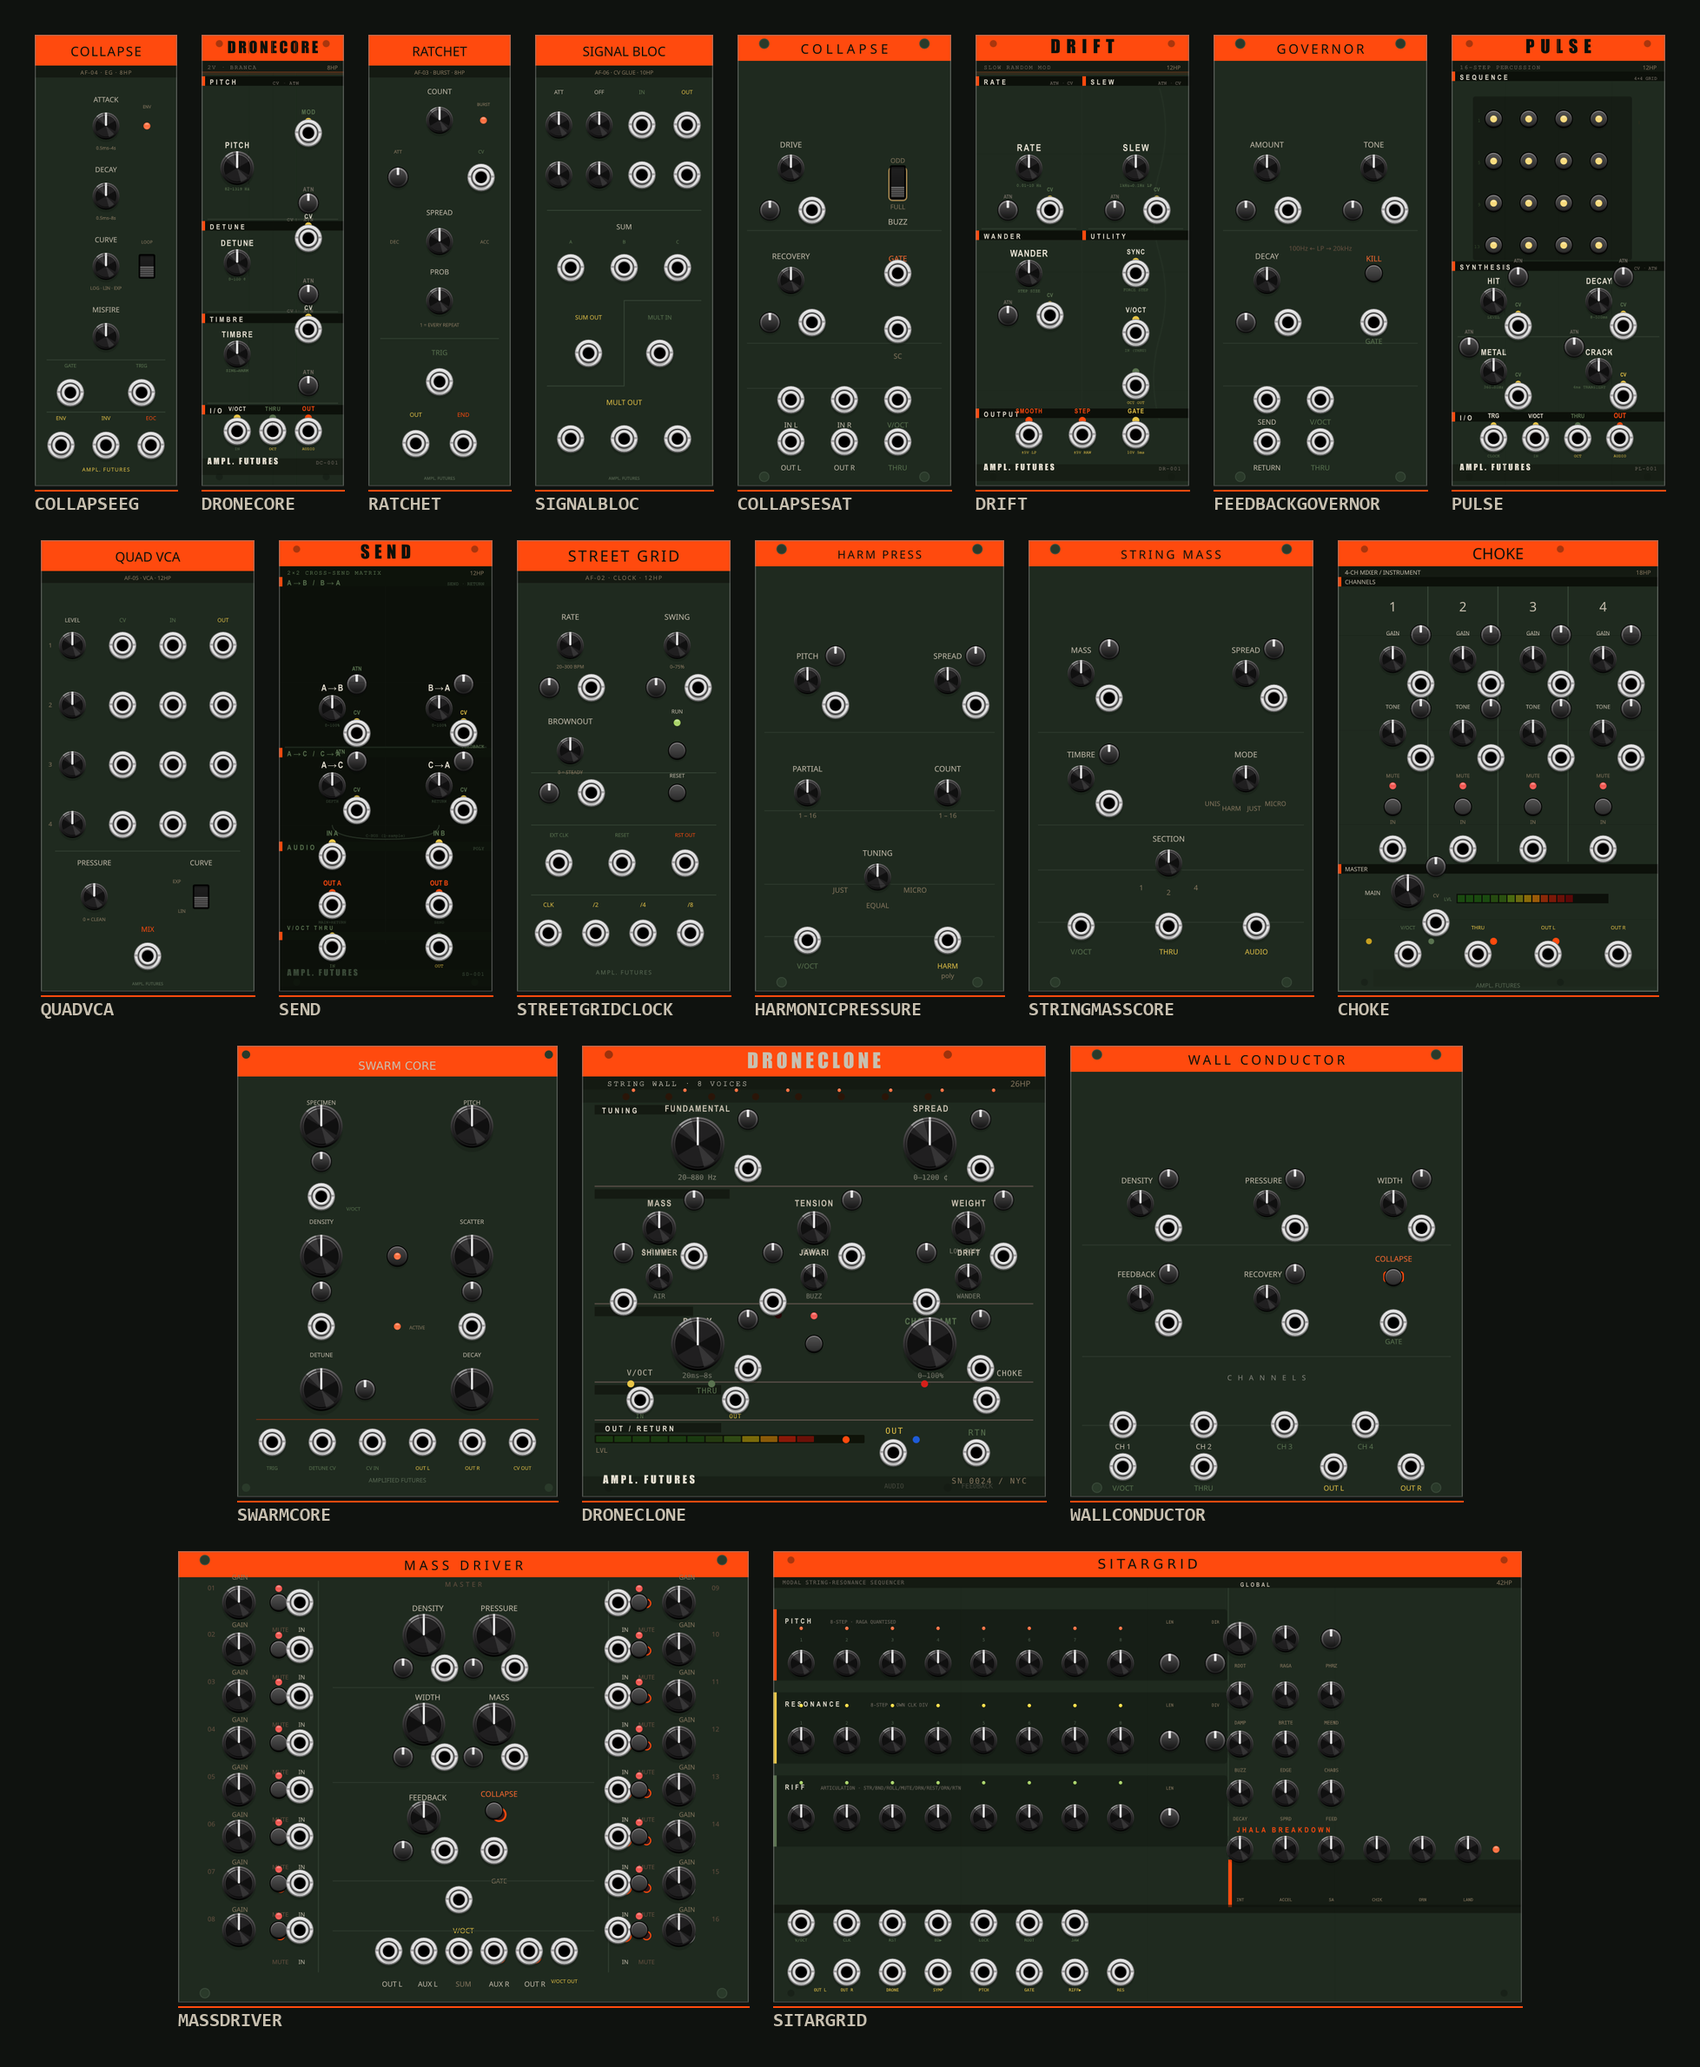
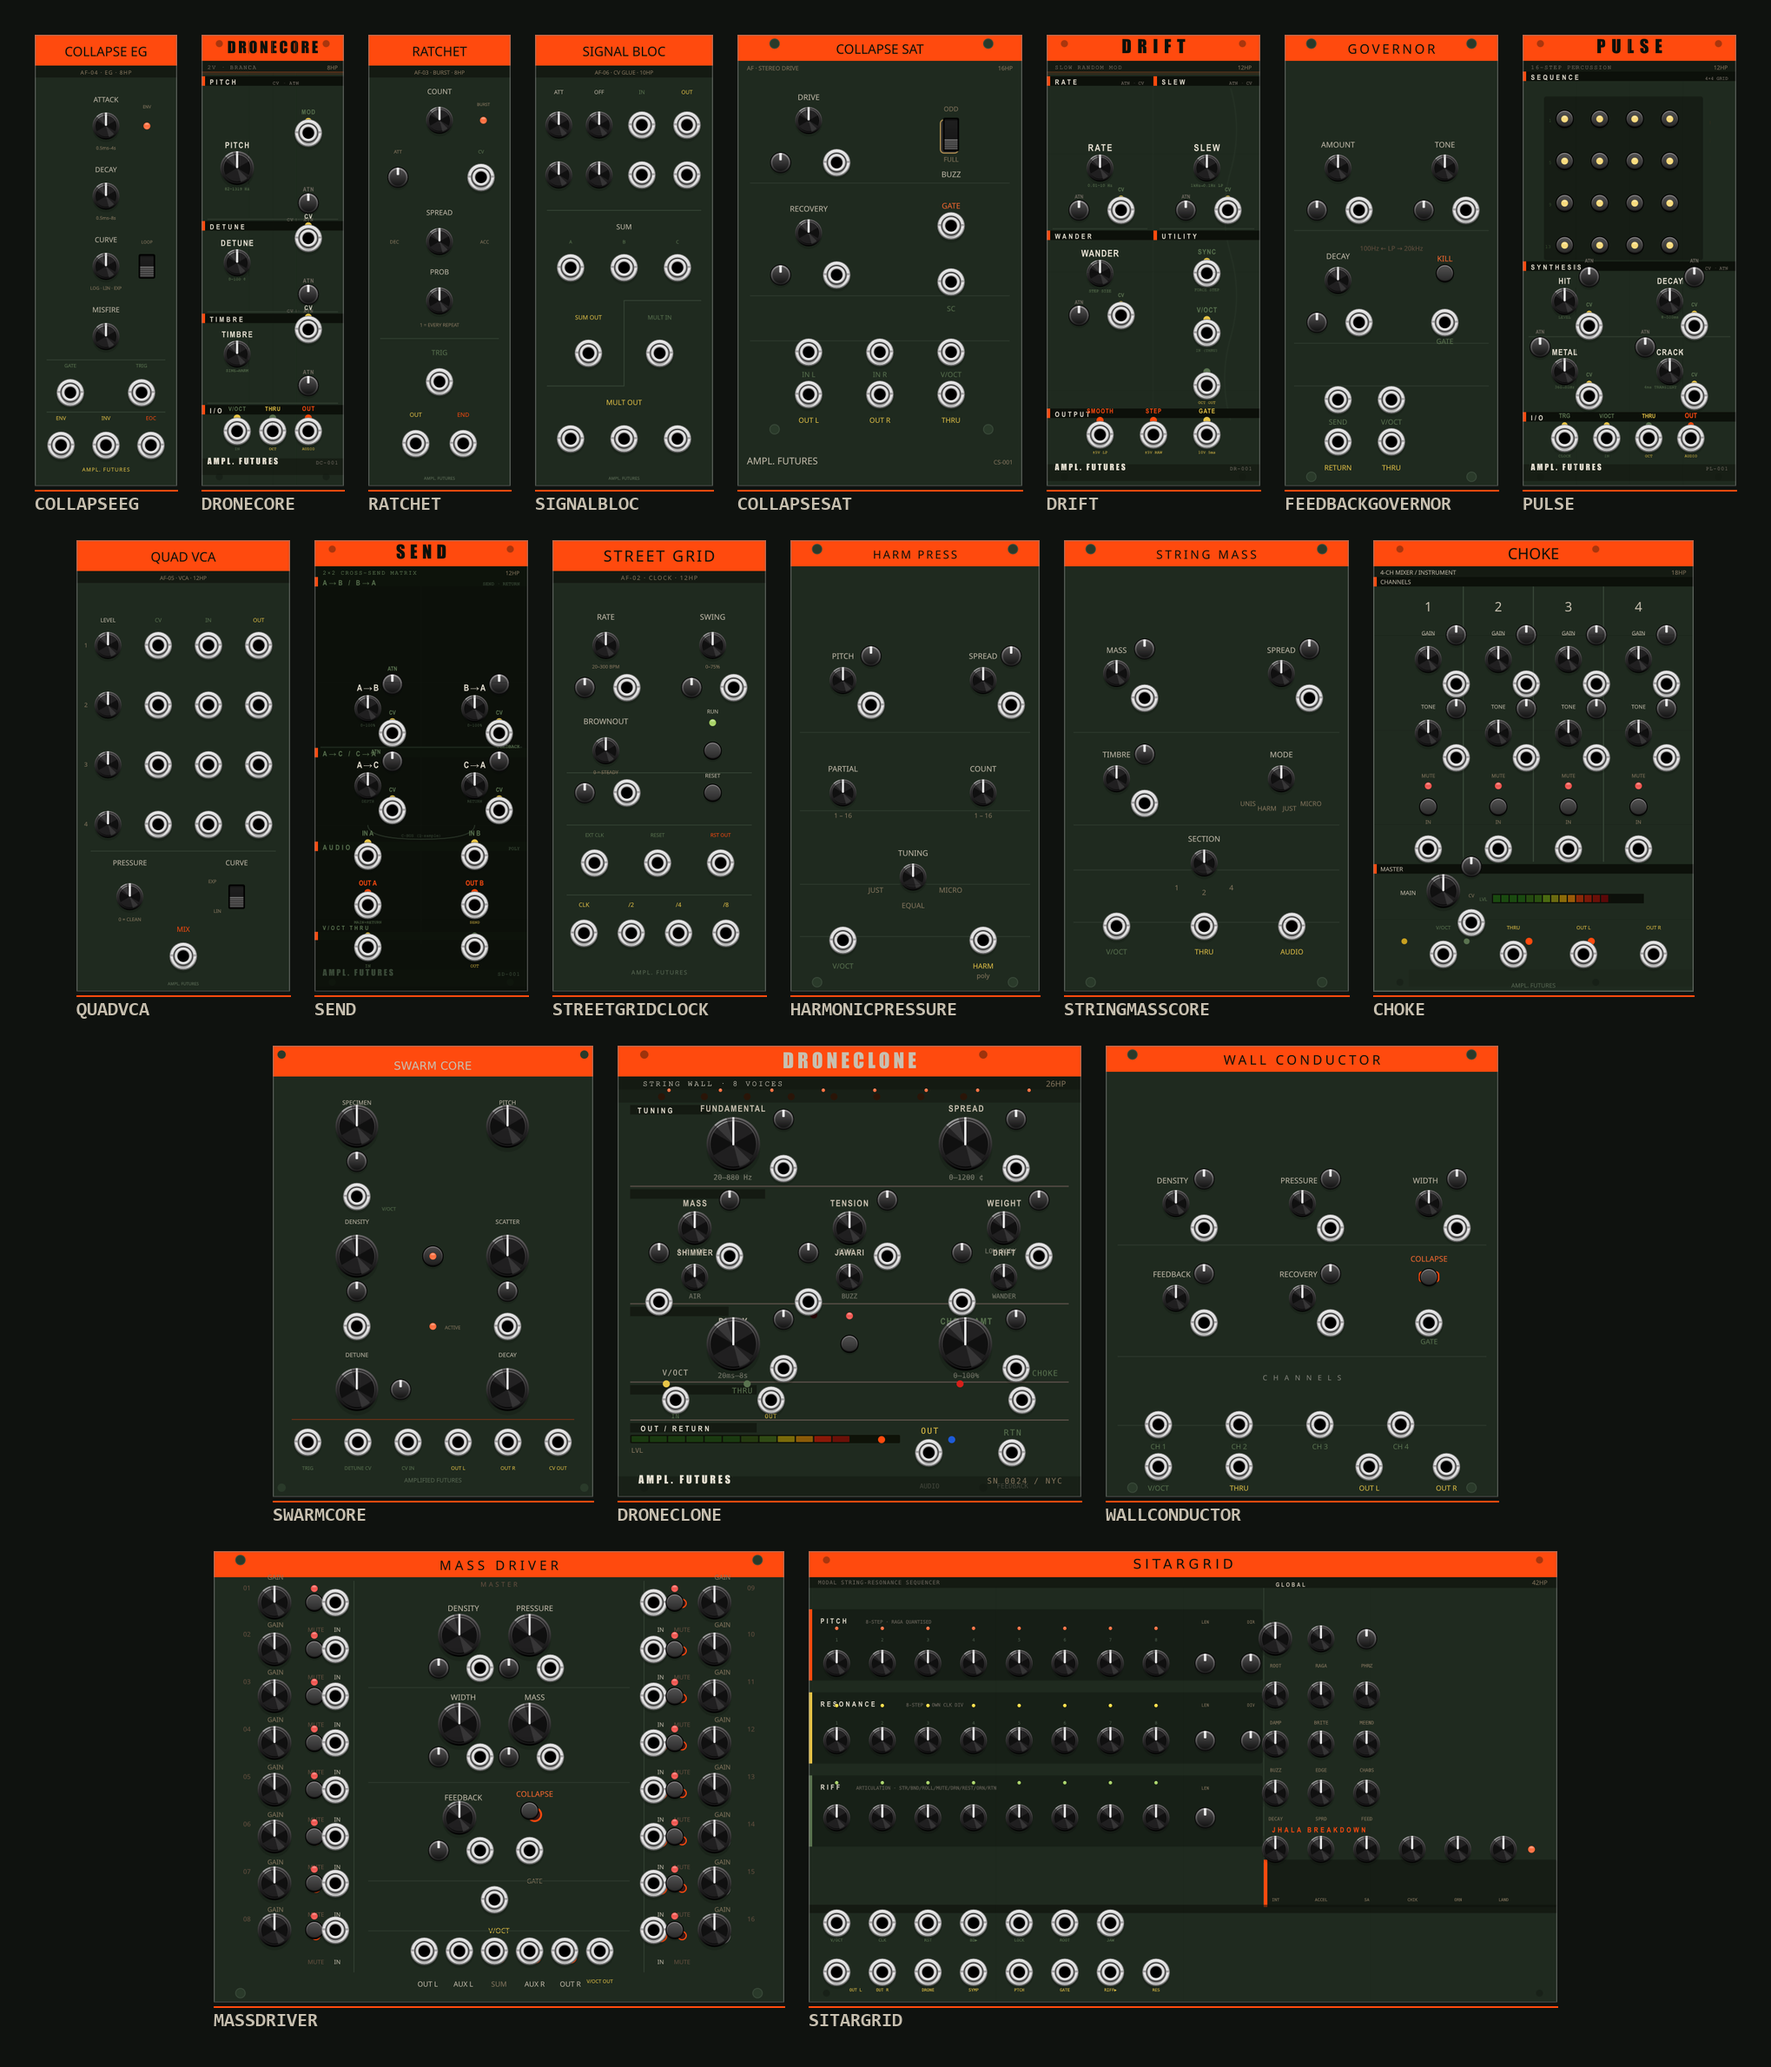
fix(panels): distinct Collapse titles, CollapseSat reflowed to 16 HP
Both panels printed a title reading COLLAPSE, so the browser showed two modules
that looked identically named. Now COLLAPSE SAT and COLLAPSE EG. The slug is
permanent and unchanged.

CollapseSat 12 -> 16 HP, control block moved up to close a 70px dead band under
the header, and given the subheader and footer every other panel already had.

The widener was finding no source for it: the panel is CollapseSat.svg but the
module is CollapseSaturator.cpp, so an earlier run widened the artwork and left
every widget behind. Slug-to-source lookup now goes through createModel.

diff --git a/src/CollapseSaturator.cpp b/src/CollapseSaturator.cpp
@@ -144,28 +144,28 @@ struct CollapseSaturatorWidget : ModuleWidget {
 
 
 		// ── Row 1: DRIVE (L) | BUZZ switch (R) ───────────────────
-		addParam(createParamCentered<RoundSmallBlackKnob>(mm2px(Vec(15.24f, 38.f)), module, CollapseSaturator::DRIVE_PARAM));
-		addParam(createParamCentered<Trimpot>(            mm2px(Vec( 9.24f, 50.f)), module, CollapseSaturator::DRIVE_ATTEN_PARAM));
-		addInput(createInputCentered<PJ301MPort>(         mm2px(Vec(21.24f, 50.f)), module, CollapseSaturator::DRIVE_CV_INPUT));
+		addParam(createParamCentered<RoundSmallBlackKnob>(mm2px(Vec(20.32f,24.45f)), module, CollapseSaturator::DRIVE_PARAM));
+		addParam(createParamCentered<Trimpot>(            mm2px(Vec(12.32f,36.45f)), module, CollapseSaturator::DRIVE_ATTEN_PARAM));
+		addInput(createInputCentered<PJ301MPort>(         mm2px(Vec(28.32f,36.45f)), module, CollapseSaturator::DRIVE_CV_INPUT));
 
-		addParam(createParamCentered<CKSSThree>(          mm2px(Vec(45.72f, 42.f)), module, CollapseSaturator::BUZZ_PARAM));
+		addParam(createParamCentered<CKSSThree>(          mm2px(Vec(60.96f,28.45f)), module, CollapseSaturator::BUZZ_PARAM));
 
 		// ── Row 2: RECOVERY (L) | COLLAPSE + SIDECHAIN (R) ───────
-		addParam(createParamCentered<RoundSmallBlackKnob>(mm2px(Vec(15.24f, 70.f)), module, CollapseSaturator::RECOVERY_PARAM));
-		addParam(createParamCentered<Trimpot>(            mm2px(Vec( 9.24f, 82.f)), module, CollapseSaturator::RECOVERY_ATTEN_PARAM));
-		addInput(createInputCentered<PJ301MPort>(         mm2px(Vec(21.24f, 82.f)), module, CollapseSaturator::RECOVERY_CV_INPUT));
+		addParam(createParamCentered<RoundSmallBlackKnob>(mm2px(Vec(20.32f,56.45f)), module, CollapseSaturator::RECOVERY_PARAM));
+		addParam(createParamCentered<Trimpot>(            mm2px(Vec(12.32f,68.45f)), module, CollapseSaturator::RECOVERY_ATTEN_PARAM));
+		addInput(createInputCentered<PJ301MPort>(         mm2px(Vec(28.32f,68.45f)), module, CollapseSaturator::RECOVERY_CV_INPUT));
 
-		addInput(createInputCentered<PJ301MPort>(mm2px(Vec(45.72f, 68.f)), module, CollapseSaturator::COLLAPSE_INPUT));
-		addInput(createInputCentered<PJ301MPort>(mm2px(Vec(45.72f, 84.f)), module, CollapseSaturator::SIDECHAIN_INPUT));
+		addInput(createInputCentered<PJ301MPort>(mm2px(Vec(60.96f,54.45f)), module, CollapseSaturator::COLLAPSE_INPUT));
+		addInput(createInputCentered<PJ301MPort>(mm2px(Vec(60.96f,70.45f)), module, CollapseSaturator::SIDECHAIN_INPUT));
 
 		// ── Row 3+4: Stereo IO + V/OCT thru ──────────────────────
-		addInput(createInputCentered<PJ301MPort>( mm2px(Vec(15.24f, 104.f)), module, CollapseSaturator::IN_L_INPUT));
-		addInput(createInputCentered<PJ301MPort>( mm2px(Vec(30.48f, 104.f)), module, CollapseSaturator::IN_R_INPUT));
-		addInput(createInputCentered<PJ301MPort>( mm2px(Vec(45.72f, 104.f)), module, CollapseSaturator::VOCT_INPUT));
+		addInput(createInputCentered<PJ301MPort>( mm2px(Vec(20.32f,90.45f)), module, CollapseSaturator::IN_L_INPUT));
+		addInput(createInputCentered<PJ301MPort>( mm2px(Vec(40.64f,90.45f)), module, CollapseSaturator::IN_R_INPUT));
+		addInput(createInputCentered<PJ301MPort>( mm2px(Vec(60.96f,90.45f)), module, CollapseSaturator::VOCT_INPUT));
 
-		addOutput(createOutputCentered<PJ301MPort>(mm2px(Vec(15.24f, 116.f)), module, CollapseSaturator::OUT_L_OUTPUT));
-		addOutput(createOutputCentered<PJ301MPort>(mm2px(Vec(30.48f, 116.f)), module, CollapseSaturator::OUT_R_OUTPUT));
-		addOutput(createOutputCentered<PJ301MPort>(mm2px(Vec(45.72f, 116.f)), module, CollapseSaturator::VOCT_OUTPUT));
+		addOutput(createOutputCentered<PJ301MPort>(mm2px(Vec(20.32f,102.5f)), module, CollapseSaturator::OUT_L_OUTPUT));
+		addOutput(createOutputCentered<PJ301MPort>(mm2px(Vec(40.64f,102.5f)), module, CollapseSaturator::OUT_R_OUTPUT));
+		addOutput(createOutputCentered<PJ301MPort>(mm2px(Vec(60.96f,102.5f)), module, CollapseSaturator::VOCT_OUTPUT));
 	}
 };
 
